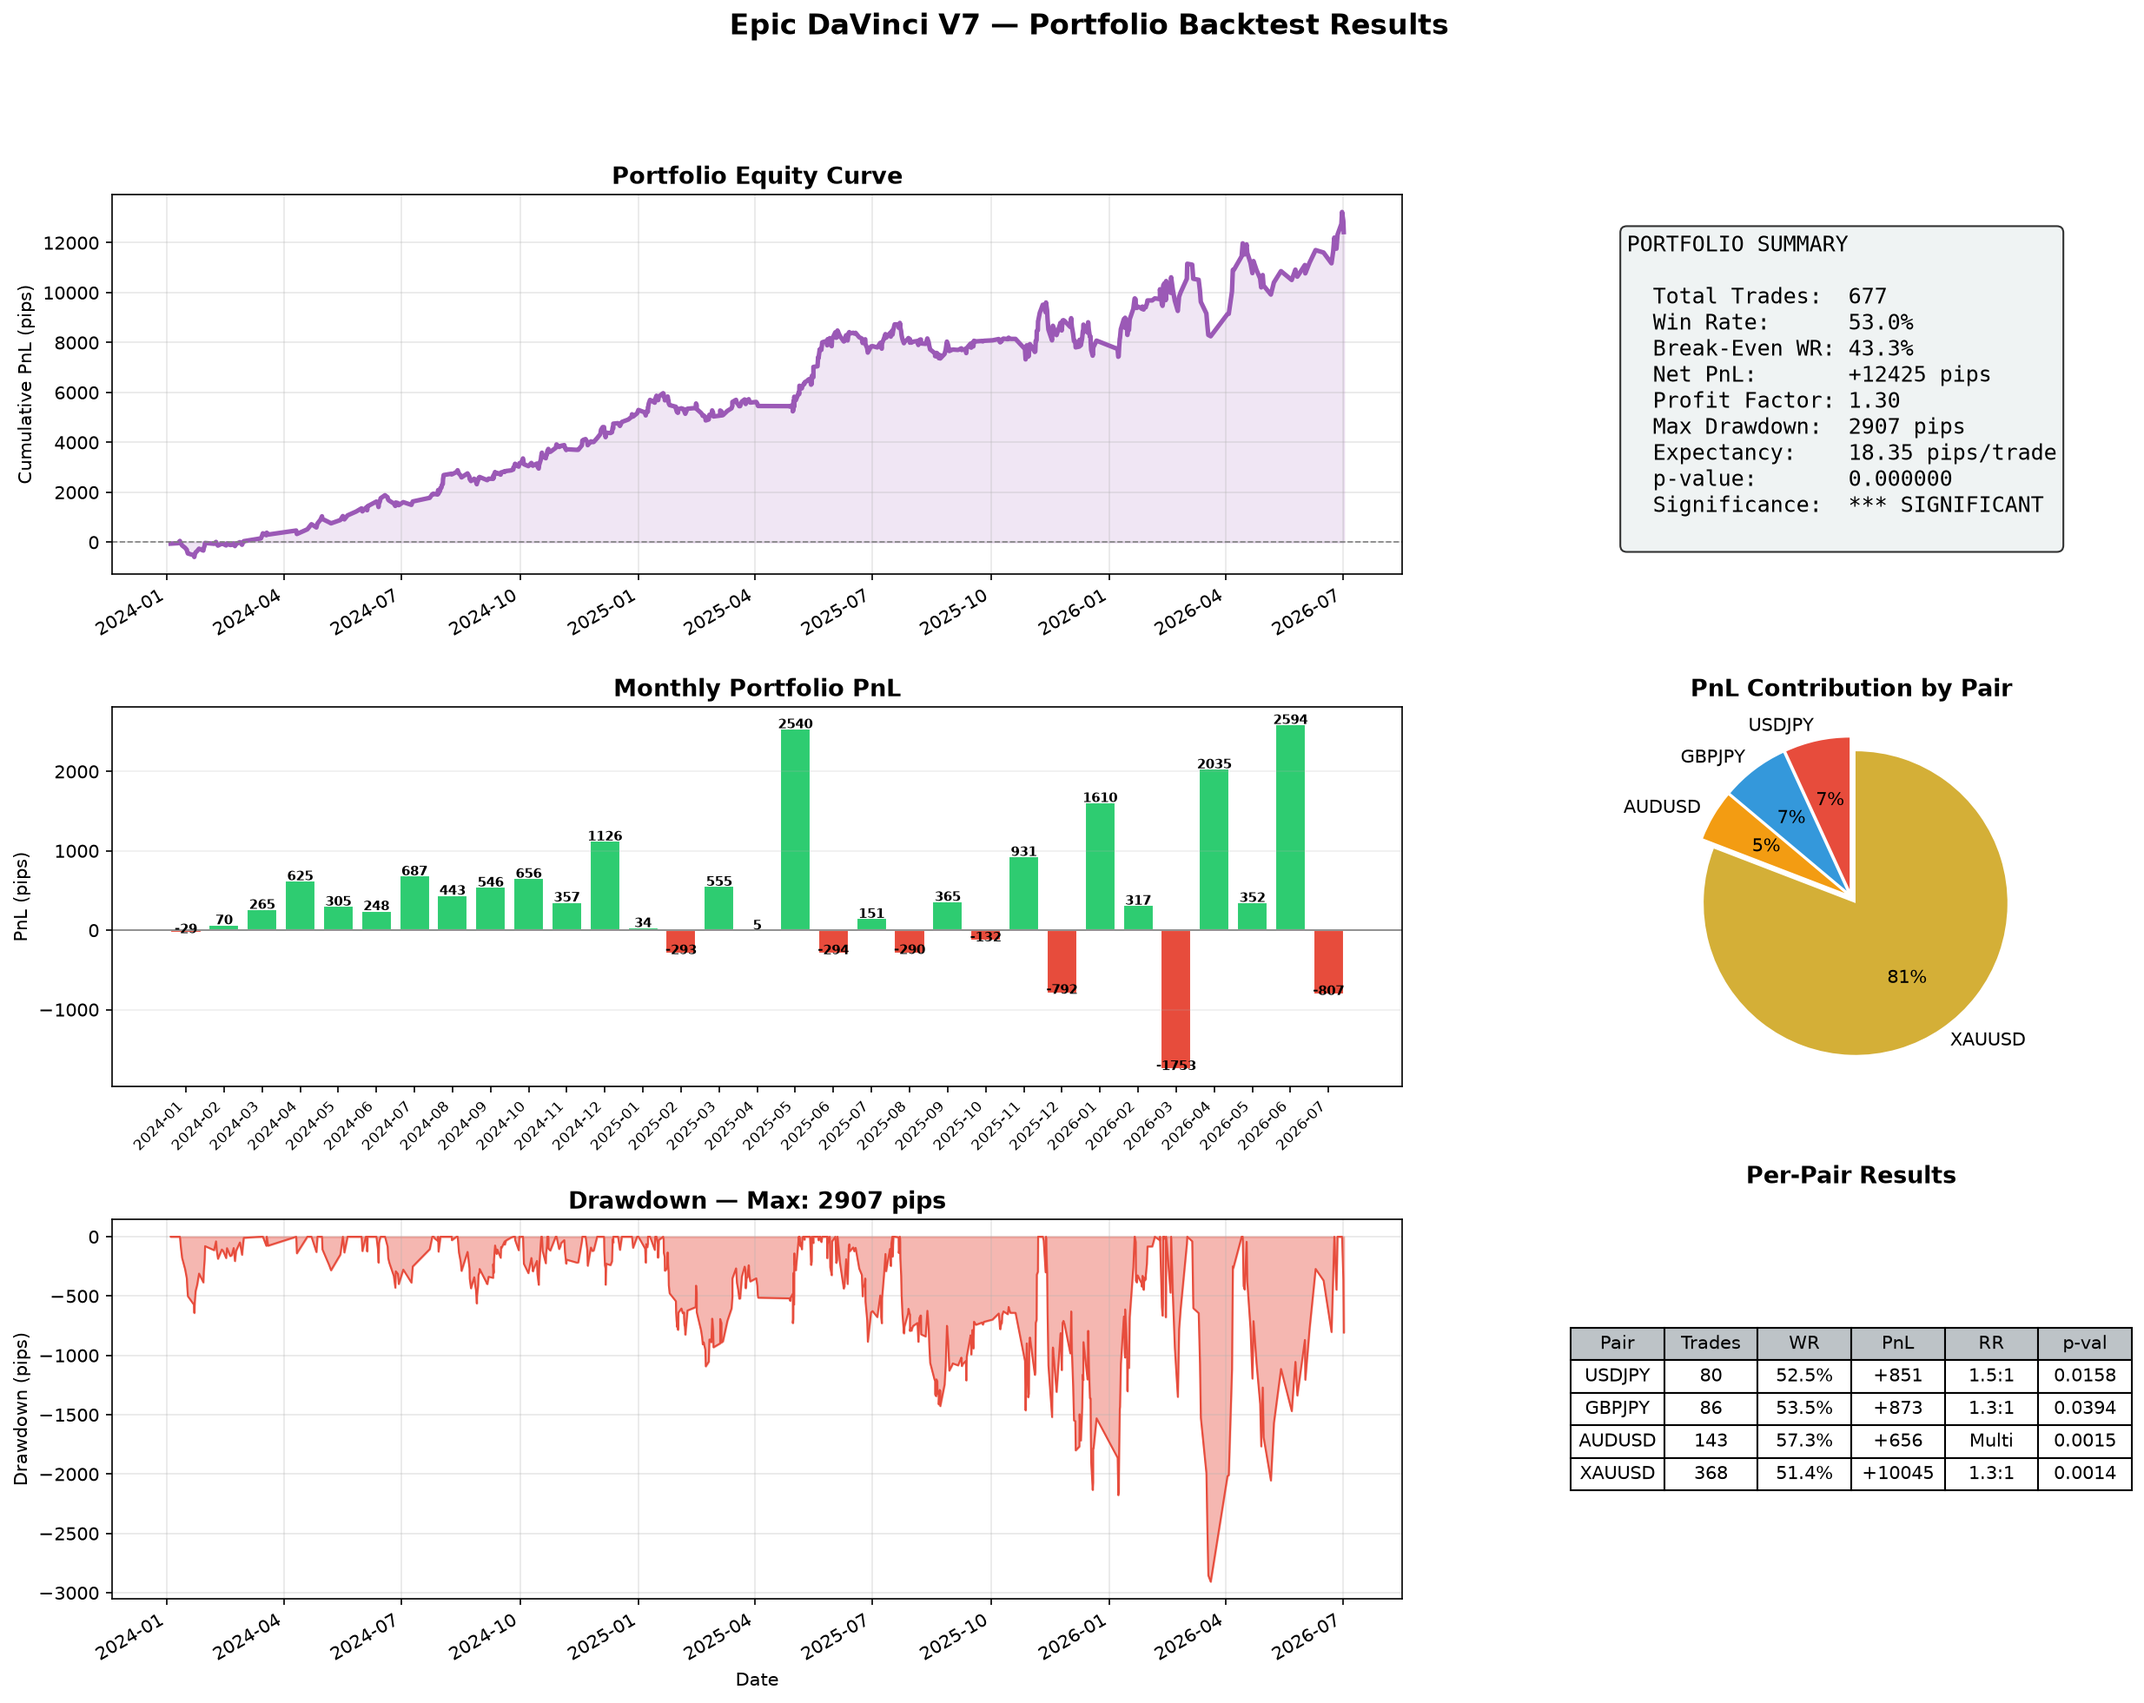
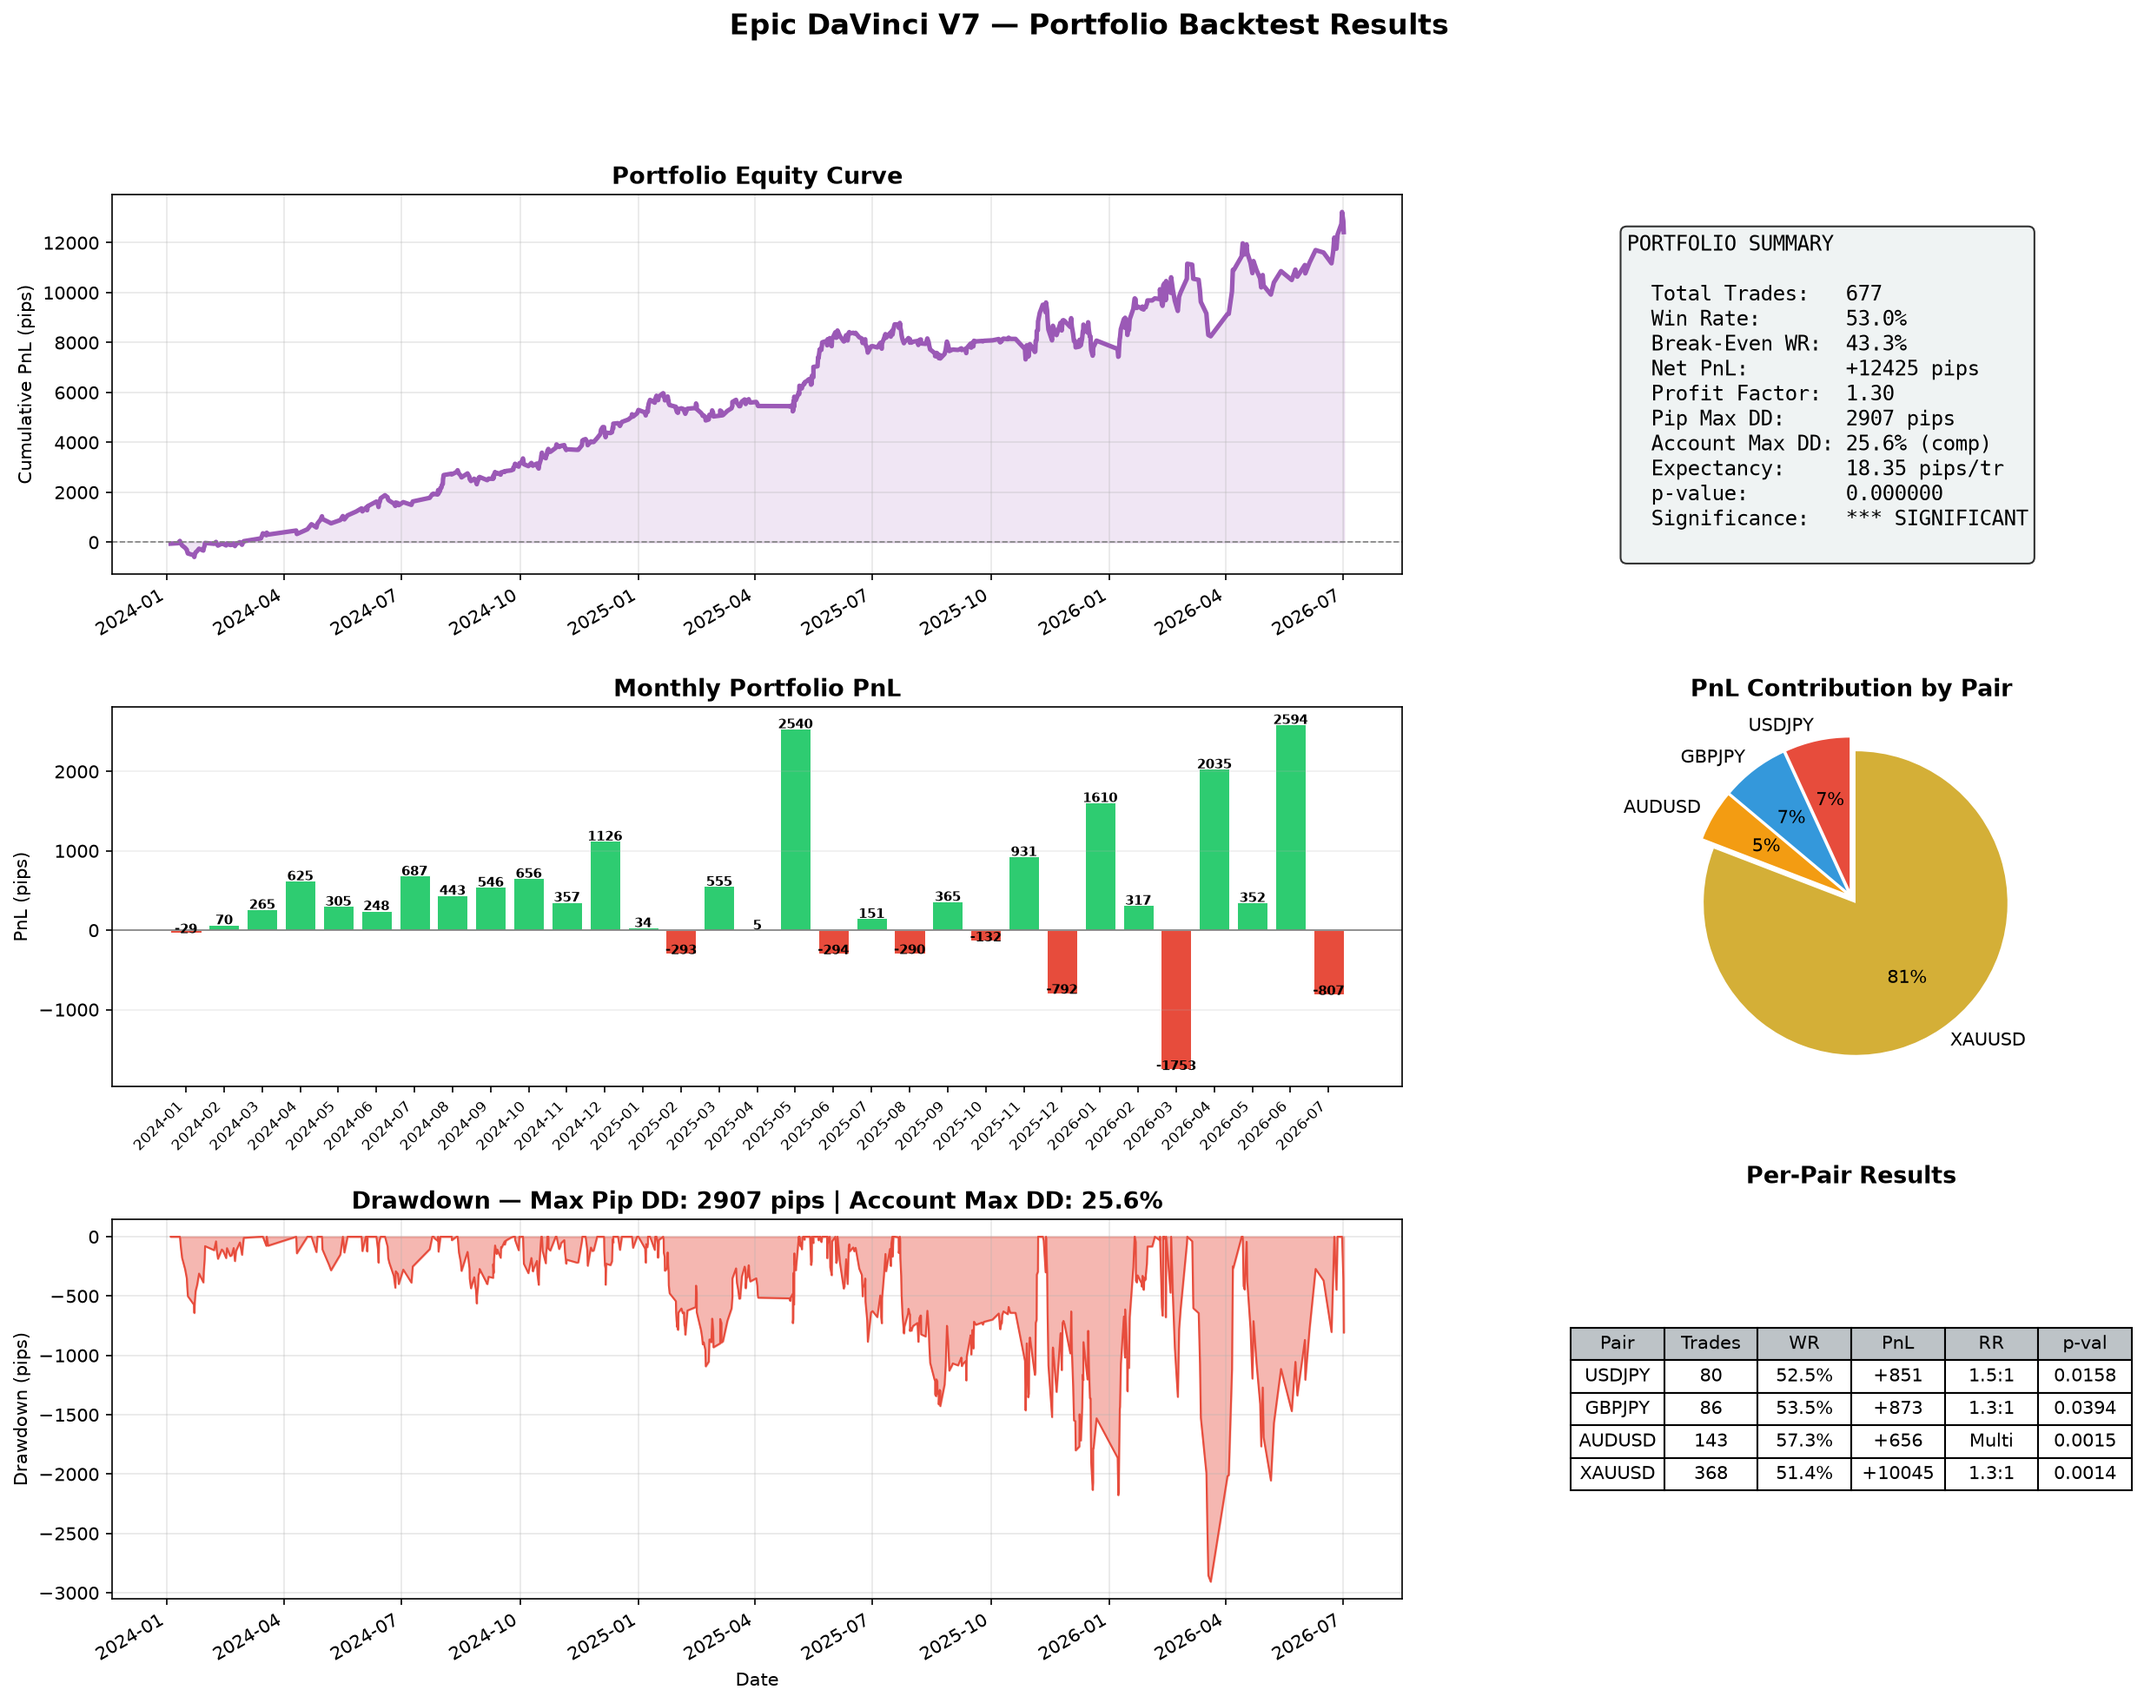
fix(visualization): dynamic 4-pair scatter plot, dual pip/account drawdown, and calendar alignment

Changed region(s): [[0.7488, 0.1244, 0.9672, 0.3111], [0.2496, 0.6843, 0.5304, 0.7155], [0.156, 0.6843, 0.2184, 0.7155]]

diff --git a/plot_results.py b/plot_results.py
@@ -100,25 +100,49 @@ def plot_equity_curve(all_trades, savepath):
 
 
 def plot_drawdown(all_trades, savepath):
-    fig, ax = plt.subplots(figsize=(14, 4))
+    fig, (ax1, ax2) = plt.subplots(2, 1, figsize=(14, 7), sharex=True)
 
     times = [pd.Timestamp(t['entry_time']) for t in all_trades]
     cum = np.cumsum([t['pips'] for t in all_trades])
     running_max = np.maximum.accumulate(cum)
     drawdown = cum - running_max
+    mdd_pips = drawdown.min() if len(drawdown) > 0 else 0
 
-    ax.fill_between(times, drawdown, 0, color=COLORS['loss'], alpha=0.4)
-    ax.plot(times, drawdown, color=COLORS['loss'], linewidth=1.5)
+    ax1.fill_between(times, drawdown, 0, color=COLORS['loss'], alpha=0.4)
+    ax1.plot(times, drawdown, color=COLORS['loss'], linewidth=1.5)
+    ax1.set_title(f'Underwater Drawdown Curve — Max Pip DD: {mdd_pips:.0f} pips (dominated by XAUUSD 200pt ATR)',
+                  fontsize=13, fontweight='bold')
+    ax1.set_ylabel('Pip Drawdown', fontsize=11)
+    ax1.grid(True, alpha=0.3)
 
-    mdd = drawdown.min() if len(drawdown) > 0 else 0
-    ax.set_title(f'Underwater Drawdown Curve — Max DD: {mdd:.0f} pips',
-                 fontsize=14, fontweight='bold')
-    ax.set_ylabel('Drawdown (pips)', fontsize=11)
-    ax.set_xlabel('Date', fontsize=11)
-    ax.xaxis.set_major_formatter(mdates.DateFormatter('%Y-%m'))
-    ax.xaxis.set_major_locator(mdates.MonthLocator(interval=2))
+    # Compounding account equity drawdown
+    comp_balance = 1000.0
+    comp_curve = [comp_balance]
+    usd_per_pip = {'USDJPY': 6.67, 'GBPJPY': 6.67, 'AUDUSD': 10.0, 'XAUUSD': 10.0}
+    for t in all_trades:
+        pip_val = usd_per_pip.get(t['ticker'], 10.0)
+        conf = t.get('meta_conf', 0.50)
+        risk_pct = 0.015 + max(0.0, min(0.010, (conf - 0.50) * 0.10))
+        trade_sl = max(10.0, t.get('sl_pips', 40.0))
+        lot = max(0.01, round((comp_balance * risk_pct) / (trade_sl * pip_val), 2))
+        comp_balance += t['pips'] * pip_val * lot
+        comp_curve.append(comp_balance)
+
+    comp_peak = np.maximum.accumulate(comp_curve[1:])
+    comp_dd = (np.array(comp_curve[1:]) - comp_peak) / comp_peak * 100
+    mdd_pct = comp_dd.min() if len(comp_dd) > 0 else 0
+
+    ax2.fill_between(times, comp_dd, 0, color='#e67e22', alpha=0.4)
+    ax2.plot(times, comp_dd, color='#d35400', linewidth=1.5)
+    ax2.set_title(f'Normalized Account Equity Drawdown — Max: {mdd_pct:.1f}% (2% Risk Compounding Model)',
+                  fontsize=13, fontweight='bold')
+    ax2.set_ylabel('Account DD (%)', fontsize=11)
+    ax2.set_xlabel('Date', fontsize=11)
+    ax2.xaxis.set_major_formatter(mdates.DateFormatter('%Y-%m'))
+    ax2.xaxis.set_major_locator(mdates.MonthLocator(interval=2))
     plt.xticks(rotation=45)
-    ax.grid(True, alpha=0.3)
+    ax2.grid(True, alpha=0.3)
+
     fig.tight_layout()
     fig.savefig(savepath, dpi=150)
     plt.close(fig)
@@ -275,9 +299,17 @@ def plot_regime_breakdown(per_pair, savepath):
     print(f"  Saved {savepath}")
 
 
-def plot_trade_scatter(all_trades, savepath):
-    fig, axes = plt.subplots(1, 3, figsize=(18, 5), sharey=True)
-    pairs = ['USDJPY', 'EURUSD', 'GBPUSD']
+def plot_trade_scatter(all_trades, savepath, pairs=None):
+    if pairs is None:
+        pairs = ['USDJPY', 'GBPJPY', 'AUDUSD', 'XAUUSD']
+    pairs = [p for p in pairs if any(t['ticker'] == p for t in all_trades)]
+    n_pairs = len(pairs)
+    if n_pairs == 0:
+        return
+
+    fig, axes = plt.subplots(1, n_pairs, figsize=(5 * n_pairs, 5), sharey=True)
+    if n_pairs == 1:
+        axes = [axes]
 
     for i, pair in enumerate(pairs):
         ax = axes[i]
@@ -291,13 +323,14 @@ def plot_trade_scatter(all_trades, savepath):
 
         ax.scatter([t['meta_conf'] for t in wins],
                    [t['pips'] for t in wins],
-                   c=COLORS['win'], alpha=0.6, s=20, label=f'Win ({len(wins)})')
+                   c=COLORS['win'], alpha=0.6, s=24, label=f'Win ({len(wins)})')
         ax.scatter([t['meta_conf'] for t in losses],
                    [t['pips'] for t in losses],
-                   c=COLORS['loss'], alpha=0.6, s=20, label=f'Loss ({len(losses)})')
+                   c=COLORS['loss'], alpha=0.6, s=24, label=f'Loss ({len(losses)})')
 
         ax.axhline(0, color='gray', linewidth=0.8, linestyle='--')
-        ax.axvline(0.40, color='orange', linewidth=1, linestyle=':', label='Threshold 0.40')
+        thresh = PORTFOLIO_CONFIGS.get(pair, {}).get('meta_threshold', 0.50)
+        ax.axvline(thresh, color='orange', linewidth=1, linestyle=':', label=f'Threshold {thresh:.2f}')
 
         n = len(trades)
         wr = sum(t['win'] for t in trades) / n * 100
@@ -354,41 +387,60 @@ def plot_summary_dashboard(all_trades, per_pair, savepath):
                      for t in all_trades])
     p_val = 1 - stats.binom.cdf(wins - 1, n, be_wr) if n > 0 else 1
 
+    # Calculate compounding equity max drawdown
+    comp_balance = 1000.0
+    comp_curve = [comp_balance]
+    usd_per_pip = {'USDJPY': 6.67, 'GBPJPY': 6.67, 'AUDUSD': 10.0, 'XAUUSD': 10.0}
+    for t in all_trades:
+        pip_val = usd_per_pip.get(t['ticker'], 10.0)
+        conf = t.get('meta_conf', 0.50)
+        risk_pct = 0.015 + max(0.0, min(0.010, (conf - 0.50) * 0.10))
+        trade_sl = max(10.0, t.get('sl_pips', 40.0))
+        lot = max(0.01, round((comp_balance * risk_pct) / (trade_sl * pip_val), 2))
+        pnl_trade = t['pips'] * pip_val * lot
+        comp_balance += pnl_trade
+        comp_curve.append(comp_balance)
+    comp_peak = np.maximum.accumulate(comp_curve)
+    comp_dd_arr = (comp_peak - np.array(comp_curve)) / comp_peak * 100
+    comp_mdd = np.max(comp_dd_arr) if len(comp_dd_arr) > 0 else 0.0
+
     stats_text = (
         f"PORTFOLIO SUMMARY\n\n"
-        f"  Total Trades:  {n}\n"
-        f"  Win Rate:      {wr:.1f}%\n"
-        f"  Break-Even WR: {be_wr*100:.1f}%\n"
-        f"  Net PnL:       {total_pnl:+.0f} pips\n"
-        f"  Profit Factor: {pf:.2f}\n"
-        f"  Max Drawdown:  {mdd:.0f} pips\n"
-        f"  Expectancy:    {exp:.2f} pips/trade\n"
-        f"  p-value:       {p_val:.6f}\n"
-        f"  Significance:  {'*** SIGNIFICANT' if p_val < 0.05 else 'not sig.'}\n"
+        f"  Total Trades:   {n}\n"
+        f"  Win Rate:       {wr:.1f}%\n"
+        f"  Break-Even WR:  {be_wr*100:.1f}%\n"
+        f"  Net PnL:        {total_pnl:+.0f} pips\n"
+        f"  Profit Factor:  {pf:.2f}\n"
+        f"  Pip Max DD:     {mdd:.0f} pips\n"
+        f"  Account Max DD: {comp_mdd:.1f}% (comp)\n"
+        f"  Expectancy:     {exp:.2f} pips/tr\n"
+        f"  p-value:        {p_val:.6f}\n"
+        f"  Significance:   {'*** SIGNIFICANT' if p_val < 0.05 else 'not sig.'}\n"
     )
     ax2.text(0.1, 0.9, stats_text, transform=ax2.transAxes,
-             fontsize=12, fontfamily='monospace', verticalalignment='top',
+             fontsize=11.5, fontfamily='monospace', verticalalignment='top',
              bbox=dict(boxstyle='round', facecolor='#ecf0f1', alpha=0.8))
 
     # 3. Monthly PnL (middle left)
     ax3 = fig.add_subplot(gs[1, :2])
+    all_months = sorted(list(set([pd.Timestamp(t['entry_time']).strftime('%Y-%m') for t in all_trades])))
     monthly = {}
     for t in all_trades:
         key = pd.Timestamp(t['entry_time']).strftime('%Y-%m')
         monthly[key] = monthly.get(key, 0) + t['pips']
-    months = sorted(monthly.keys())
-    vals = [monthly[m] for m in months]
-    colors = [COLORS['win'] if v > 0 else COLORS['loss'] for v in vals]
-    ax3.bar(range(len(vals)), vals, color=colors, edgecolor='white')
+    vals = [monthly.get(m, 0.0) for m in all_months]
+    colors = [COLORS['win'] if v > 0 else (COLORS['loss'] if v < 0 else '#bdc3c7') for v in vals]
+    ax3.bar(range(len(all_months)), vals, color=colors, edgecolor='white', linewidth=0.5)
     ax3.axhline(0, color='gray', linewidth=0.8)
-    ax3.set_xticks(range(len(months)))
-    ax3.set_xticklabels(months, rotation=45, ha='right', fontsize=8)
+    ax3.set_xticks(range(len(all_months)))
+    ax3.set_xticklabels(all_months, rotation=45, ha='right', fontsize=8)
     ax3.set_title('Monthly Portfolio PnL', fontsize=13, fontweight='bold')
     ax3.set_ylabel('PnL (pips)')
     ax3.grid(True, alpha=0.2, axis='y')
     for j, v in enumerate(vals):
-        ax3.text(j, v + (5 if v > 0 else -8), f'{v:.0f}',
-                 ha='center', fontsize=7, fontweight='bold')
+        if abs(v) > 0.01:
+            ax3.text(j, v + (5 if v > 0 else -8), f'{v:.0f}',
+                     ha='center', fontsize=7, fontweight='bold')
 
     # 4. Per-pair pie (middle right)
     ax4 = fig.add_subplot(gs[1, 2])
@@ -412,7 +464,7 @@ def plot_summary_dashboard(all_trades, per_pair, savepath):
     dd = cum - rmax
     ax5.fill_between(times, dd, 0, color=COLORS['loss'], alpha=0.4)
     ax5.plot(times, dd, color=COLORS['loss'], linewidth=1)
-    ax5.set_title(f'Drawdown — Max: {mdd:.0f} pips', fontsize=13, fontweight='bold')
+    ax5.set_title(f'Drawdown — Max Pip DD: {mdd:.0f} pips | Account Max DD: {comp_mdd:.1f}%', fontsize=13, fontweight='bold')
     ax5.set_ylabel('Drawdown (pips)')
     ax5.set_xlabel('Date')
     ax5.xaxis.set_major_formatter(mdates.DateFormatter('%Y-%m'))
